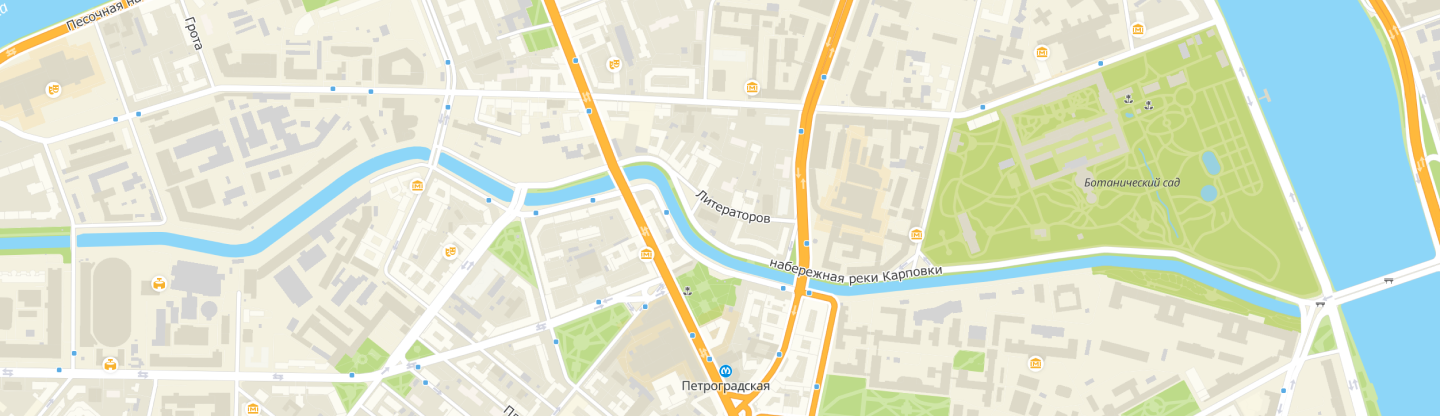
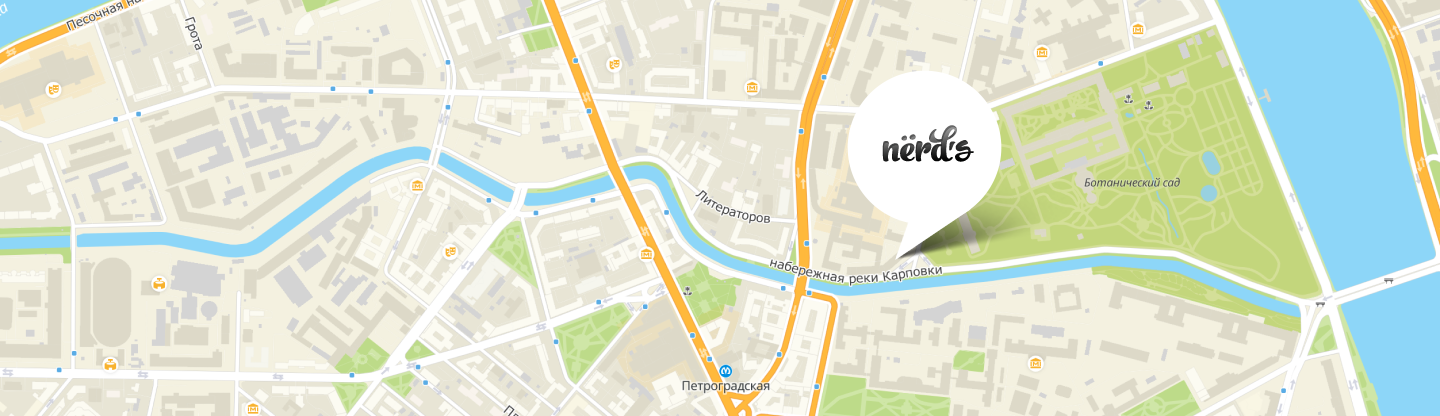
Внесение правок по текущему пр.

Changed region(s): [[0.5625, 0.1562, 0.7188, 0.625]]

diff --git a/catalog.html b/catalog.html
@@ -11,8 +11,8 @@
   <header>
 
     <nav>
-      <a href="index.html">
-        <img src="img/nerds-logo.svg" width="159.87" height="65.02" alt="Логотип">
+      <a>
+        <img src="img/nerds-logo.svg" width="159.87" height="65.02" alt="Логотип дизайн-студии Нёрдс">
       </a>
       <ul>
         <li><a href="blank.html">Студия</a></li>
@@ -69,7 +69,8 @@
     </section>
 
     <section>
-      <h2>Сортировать</h2>
+      <h2>Управление сортировкой шаблонов</h2>
+      <p>Сортировать</p>
       <ul>
         <li>По цене</li>
         <li>По типу</li>
@@ -81,99 +82,73 @@
 
     <section>
       <h2>Список шаблонов</h2>
-      <div>
-        <div>
-          <img src="img/catalog/browser-catalog-card.svg" width="360" height="40" alt="Рамка карточки">
-        </div>
-        <div>
-          <img src="img/catalog/img-sedona.jpg" width="358" height="578" alt="Sedona">
-        </div>
-        <div>
+      <ul>
+        <li>
+          <img src="img/catalog/img-sedona.jpg" width="358" height="578" alt="Шаблон Sedona">
           <h3>Sedona</h3>
           <p>Информационный сайт для туристов</p>
           <button type="button">9 900 ₽</button>
-        </div>
-      </div>
-      <div>
-        <div>
-          <img src="img/catalog/browser-catalog-card.svg" width="360" height="40" alt="Рамка карточки">
-        </div>
-        <div>
-          <img src="img/catalog/img-pink.jpg" width="358" height="578" alt="Pink App">
-        </div>
-        <div>
+        </li>
+        <li>
+          <img src="img/catalog/img-pink.jpg" width="358" height="578" alt="Шаблон Pink App">
           <h3>Pink App</h3>
           <p>Продуктовый лендинг приложения для iOS и Android</p>
           <button type="button">9 900 ₽</button>
-        </div>
-
-      </div>
-      <div>
-        <div>
-          <img src="img/catalog/browser-catalog-card.svg" width="360" height="40" alt="Рамка карточки">
-        </div>
-        <div>
-          <img src="img/catalog/img-barbershop.jpg" width="358" height="578" alt="Barbershop">
-        </div>
-        <div>
+        </li>
+        <li>
+          <img src="img/catalog/img-barbershop.jpg" width="358" height="578" alt="Шаблон Barbershop">
           <h3>Barbershop</h3>
           <p>Сайт салона красоты. Для мужчин, да.</p>
           <button type="button">9 900 ₽</button>
-        </div>
-      </div>
-      <div>
-        <div>
-          <img src="img/catalog/browser-catalog-card.svg" width="360" height="40" alt="Рамка карточки">
-        </div>
-        <div>
-          <img src="img/catalog/img-mishka.jpg" width="358" height="578" alt="Mishka">
-        </div>
-        <div>
+        </li>
+        <li>
+          <img src="img/catalog/img-mishka.jpg" width="358" height="578" alt="Шаблон Mishka">
           <h3>Mishka</h3>
           <p>Интернет-магазин вязаных игрушек</p>
           <button type="button">9 900 ₽</button>
-        </div>
-      </div>
-      <div>
-        <div>
-          <img src="img/catalog/browser-catalog-card.svg" width="360" height="40" alt="Рамка карточки">
-        </div>
-        <div>
-          <img src="img/catalog/img-aplus.jpg" width="358" height="578" alt="Aplus">
-        </div>
-        <div>
+        </li>
+        <li>
+          <img src="img/catalog/img-aplus.jpg" width="358" height="578" alt="Шаблон Aplus">
           <h3>A plus</h3>
           <p>Лендинг курсов повышения квалификации</p>
           <button type="button">9 900 ₽</button>
-        </div>
-      </div>
-      <div>
-        <div>
-          <img src="img/catalog/browser-catalog-card.svg" width="360" height="40" alt="Рамка карточки">
-        </div>
-        <div>
-          <img src="img/catalog/img-kvast.jpg" width="358" height="578" alt="Кваст">
-        </div>
-        <div>
+        </li>
+        <li><img src="img/catalog/img-kvast.jpg" width="358" height="578" alt="Шаблон Кваст">
           <h3>Кваст</h3>
           <p>Промо-сайт производителя крафтового кваса</p>
           <button type="button">9 900 ₽</button>
-        </div>
-      </div>
-    </section>
-
-    <section>
-      <button type="button">1</button>
-      <button type="button">2</button>
-      <button type="button">3</button>
-      <button type="button">Следующая</button>
+        </li>
+      </ul>
+      <ul>
+        <li>
+          <a>1</a>
+        </li>
+        <li>
+          <a href="#">2</a>
+        </li>
+        <li>
+          <a href="#">3</a>
+        </li>
+        <li>
+          <a href="#">Следующая</a>
+        </li>
+      </ul>
     </section>
 
   </main>
 
   <footer>
+    <section>
+      <h2>Контакты дизайн студии</h2>
+      <img src="img/footer/map.png" width="1440" height="416" alt="Карта расположения студии">
+      <div>
+        <h3>NЁRDS DESIGN STUDIO</h3>
+        <p>наб. Реки Карповки, 5 лит П, Санкт-Петербург</p>
+        <a href="tel:+78005558628">+7 800 555-86-28</a>
+        <p><button type="button">Напишите нам</button></p>
+      </div>
+    </section>
 
-    <img src="img/footer/map.png" width="1440" height="416" alt="Карта расположения студии">
 
     <section>
       <h2>Давайте дружить, это выгодно!</h2>

diff --git a/index.html b/index.html
@@ -12,7 +12,7 @@
 
     <nav>
       <a>
-        <img src="img/nerds-logo.svg" width="159.87" height="65.02" alt="Логотип">
+        <img src="img/nerds-logo.svg" width="159.87" height="65.02" alt="Логотип дизайн-студии Нёрдс">
       </a>
       <ul>
         <li><a href="blank.html">Студия</a></li>
@@ -53,19 +53,19 @@
     <section>
       <h2>Вы можете заказать у нас</h2>
       <div>
-        <img src="img/index/offer-site.jpg" width="300" height="146" alt="Веб-сайт">
+        <img src="img/index/offer-site.jpg" width="300" height="146" alt="Разработка дизайна для Вашего веб-сайта">
         <h3>Веб-сайты</h3>
         <p>Мир никогда не будет прежним после того как увидит ваш сайт!</p>
         <button type="button">Заказать</button>
       </div>
       <div>
-        <img src="img/index/offer-app.jpg" width="300" height="146" alt="Веб-сайт">
+        <img src="img/index/offer-app.jpg" width="300" height="146" alt="Разработка мобильных приложений для iOS и Android">
         <h3>Приложения</h3>
         <p>Покорите топ-10 приложений в AppStore и Google Play</p>
         <button type="button">Заказать</button>
       </div>
       <div>
-        <img src="img/index/offer-presentations.jpg" width="300" height="146" alt="Веб-сайт">
+        <img src="img/index/offer-presentations.jpg" width="300" height="146" alt="Создаём лучшие презентации во вселенной">
         <h3>Презентации</h3>
         <p>Вы даже не подозреваете, насколько вы изумительны!</p>
         <button type="button">Заказать</button>
@@ -84,7 +84,7 @@
     </section>
 
     <section>
-      <img src="img/index/logo-body.png" width="360" height="208" alt="Логотип дизайн студии Нёрдс">
+      <img src="img/index/logo-body.png" width="360" height="208" alt="Логотип дизайн-студии Нёрдс">
       <span>с 2004 года Любим точность во всем:</span>
       <p>146%</p>
       <p>Уровень самоотдачи</p>
@@ -107,21 +107,30 @@
   </main>
 
   <footer>
+    <section>
+      <h2>Контакты дизайн студии</h2>
+      <img src="img/footer/map.png" width="1440" height="416" alt="Карта расположения студии">
+      <div>
+        <p>NЁRDS DESIGN STUDIO</p>
+        <p>наб. Реки Карповки, 5 лит П, Санкт-Петербург</p>
+        <a href="tel:+78005558628">+7 800 555-86-28</a>
+        <p><button type="button">Напишите нам</button></p>
+      </div>
+    </section>
 
-    <img src="img/footer/map.png" width="1440" height="416" alt="Карта расположения студии">
 
     <section>
-      <h2>Давайте дружить, это выгодно!</h2>
+      <p>Давайте дружить, это выгодно!</p>
       <p>Скидка 10% для друзей из социальных сетей.</p>
       <ul>
         <li>
-          <a href="#"><img src="img/footer/vk-icon.svg" width="26.01" height="15"></a>
+          <a href="#"><img src="img/footer/vk-icon.svg" width="26.01" height="15" alt="Логотип социальной сети Вконтакте"></a>
         </li>
         <li>
-          <a href="#"><img src="img/footer/fb-icon.svg" width="12" height="22"></a>
+          <a href="#"><img src="img/footer/fb-icon.svg" width="12" height="22" alt="Логотип социальной сети Фейсбук"></a>
         </li>
         <li>
-          <a href="#"><img src="img/footer/insta-icon.svg" width="21" height="21"></a>
+          <a href="#"><img src="img/footer/insta-icon.svg" width="21" height="21" alt="Логотип социальной сети Интаграмм"></a>
         </li>
       </ul>
     </section>

diff --git a/blank.html b/blank.html
@@ -11,8 +11,8 @@
     <header>
 
       <nav>
-        <a href="index.html">
-          <img src="img/nerds-logo.svg" width="159.87" height="65.02" alt="Логотип">
+        <a>
+          <img src="img/nerds-logo.svg" width="159.87" height="65.02" alt="Логотип дизайн-студии Нёрдс">
         </a>
         <ul>
           <li><a href="blank.html">Студия</a></li>
@@ -28,8 +28,17 @@
     </header>
 
     <footer>
+      <section>
+        <h2>Контакты дизайн студии</h2>
+        <img src="img/footer/map.png" width="1440" height="416" alt="Карта расположения студии">
+        <div>
+          <h3>NЁRDS DESIGN STUDIO</h3>
+          <p>наб. Реки Карповки, 5 лит П, Санкт-Петербург</p>
+          <a href="tel:+78005558628">+7 800 555-86-28</a>
+          <p><button type="button">Напишите нам</button></p>
+        </div>
+      </section>
 
-      <img src="img/footer/map.png" width="1440" height="416" alt="Карта расположения студии">
 
       <section>
         <h2>Давайте дружить, это выгодно!</h2>
